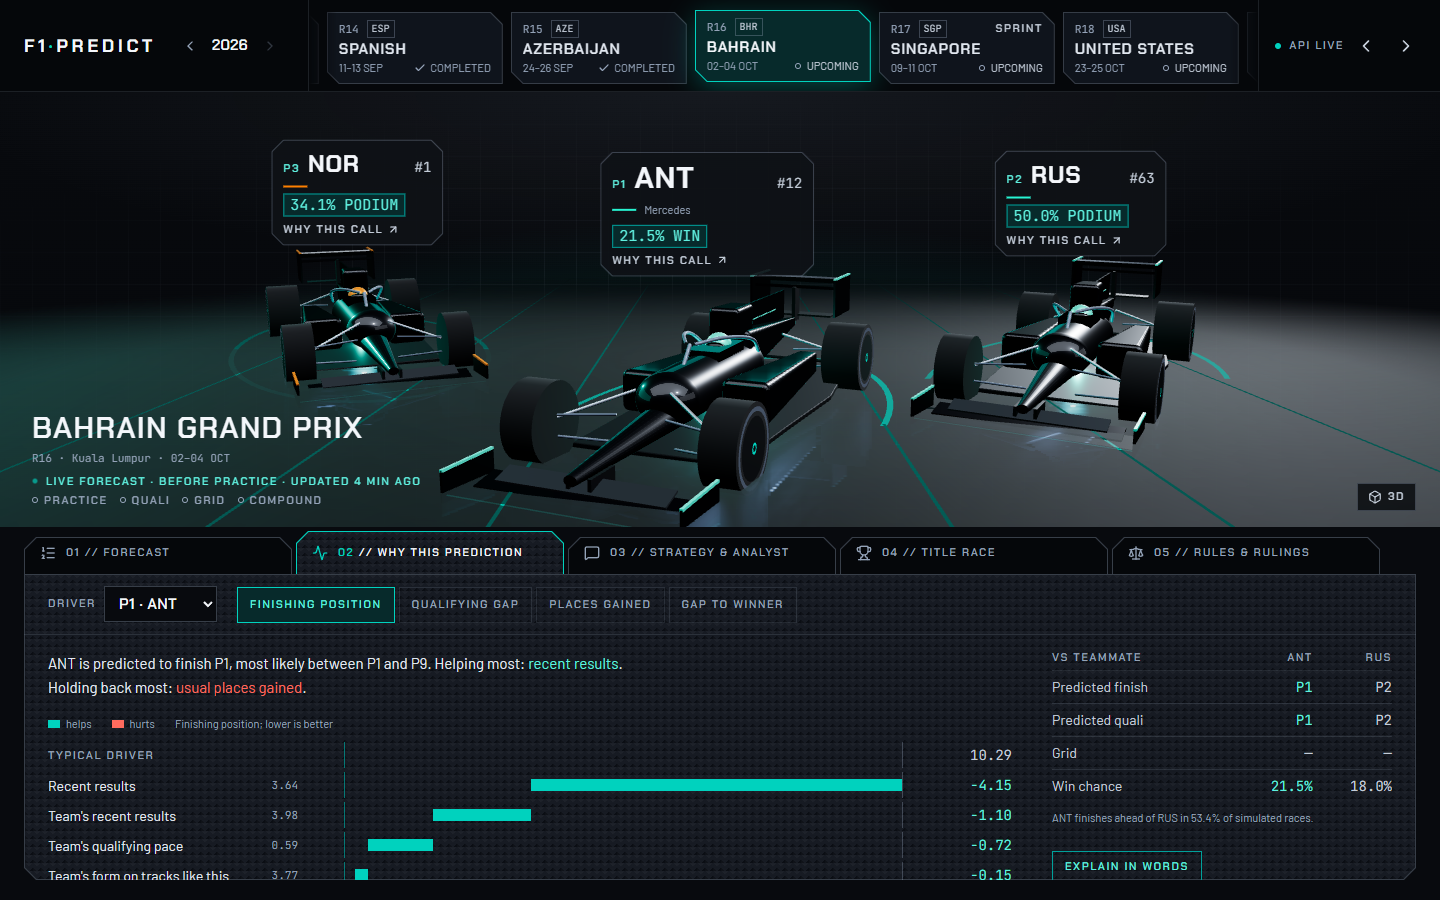
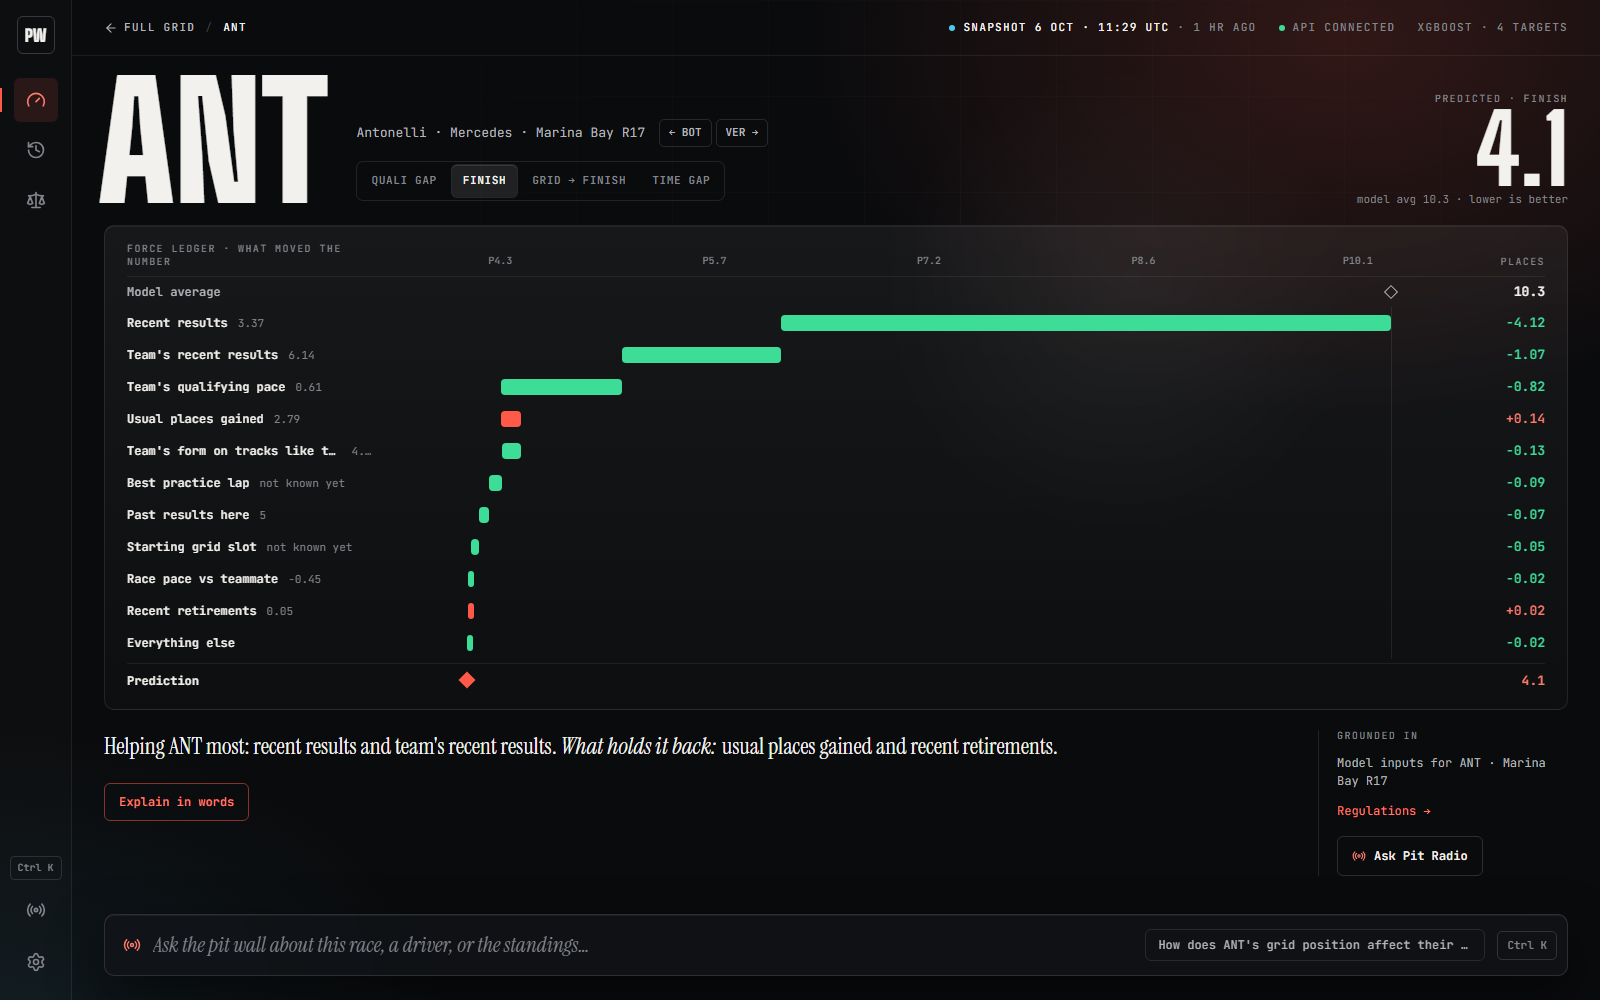
Update README to clarify the purpose of the Why tab and enhance image description

diff --git a/README.md b/README.md
@@ -45,9 +45,9 @@ For the next race, and for every race since 2022:
 Forecasts refresh automatically through the weekend, sharpening after every practice session and again after qualifying. There's no *"not available yet"* — only *"less informed yet."*
 
 <p align="center">
-  <img src="docs/why-tab.png" alt="The Why tab: a plain-language summary, the inputs that pushed the prediction up or down, and the teammate comparison" width="100%">
+  <img src="docs/why-tab.png" alt="A driver's Why page: the model average, each input that moved the predicted finish up or down, and a plain-language summary" width="100%">
   <br>
-  <sub><i>The Why tab — every prediction is one click from its own reasoning.</i></sub>
+  <sub><i>A driver's Why page: every prediction is one click from what moved it.</i></sub>
 </p>
 
 <br>
